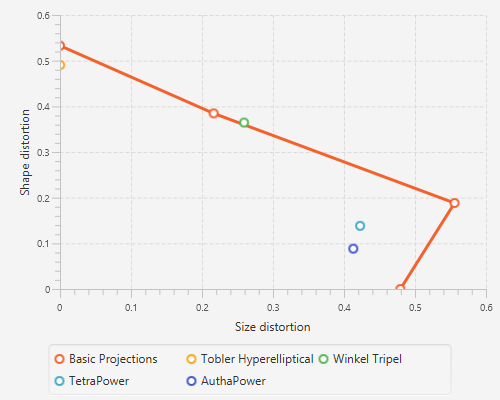
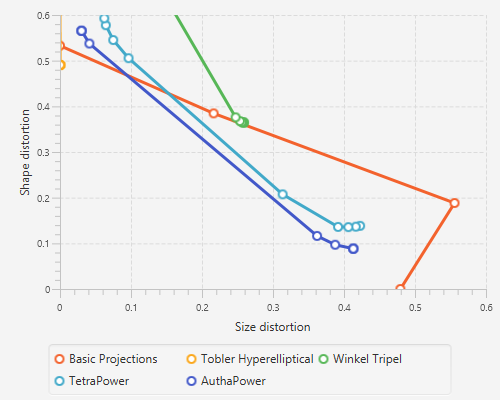
Good documentation is its own reward
I tidied up the documentation on the BFGS stuff and updated my maps and
defaults to be informed by the new optimizations.

diff --git a/src/apps/MapOptimizer.java b/src/apps/MapOptimizer.java
@@ -57,14 +57,13 @@ import utils.linalg.Vector;
 public class MapOptimizer extends Application {
 	
 	private static final Projection[] EXISTING_PROJECTIONS = { Cylindrical.BEHRMANN,
-			Arbitrary.ROBINSON, Cylindrical.GALL_STEREOGRAPHIC, Misc.PEIRCE_QUINCUNCIAL };
+			Arbitrary.ROBINSON, Cylindrical.PLATE_CARREE, Cylindrical.GALL_STEREOGRAPHIC,
+			Misc.PEIRCE_QUINCUNCIAL };
 	private static final Projection[] PROJECTIONS_TO_OPTIMIZE = { Tobler.TOBLER,
 			WinkelTripel.WINKEL_TRIPEL, Polyhedral.TETRAPOWER, Polyhedral.AUTHAPOWER };
-//	private static final double[] WEIGHTS = { 0., .125, .25, .375, .5, .625, .75, .875, 1. };
-	private static final double[] WEIGHTS = {0};
-	private static final int NUM_SAMPLE = 1;
+	private static final double[] WEIGHTS = { 0., .125, .25, .375, .5, .625, .75, .875, 1. };
 	private static final int NUM_BRUTE_FORCE = 30;
-	private static final int NUM_BFGS_ITERATE = 6;
+	private static final int NUM_BFGS_ITERATE = 7;
 	private static final double GOLDSTEIN_C = 0.5;
 	private static final double BACKTRACK_TAU = 0.5;
 	private static final double BACKTRACK_ALF0 = 4;
@@ -126,17 +125,8 @@ public class MapOptimizer extends Application {
 	}
 	
 	
-	private static final double weighDistortion(Projection proj, double[] params, double weight) {
-		double areaDist = 0, anglDist = 0;
-		for (int i = 0; i < NUM_SAMPLE; i ++) {
-			double[] mcParams = new double[params.length];
-			for (int j = 0; j < mcParams.length; j ++)
-				mcParams[j] = params[j];// + (Math.random()-.5)*1e-3; //is it weird that I'm introducing stochasticity into this?
-			double[] distortions = proj.avgDistortion(GLOBE, mcParams);
-			areaDist += distortions[0];
-			anglDist += distortions[1];
-		}
-		return areaDist/NUM_SAMPLE*weight + anglDist/NUM_SAMPLE*(1-weight);
+	private static final double weighDistortion(double[] distortions, double weight) {
+		return distortions[0]*weight + distortions[1]*(1-weight);
 	}
 	
 	
@@ -149,10 +139,10 @@ public class MapOptimizer extends Application {
 		for (int k = 0; k < WEIGHTS.length; k ++) {
 			final double weighFactor = WEIGHTS[k];
 			double[] currentBest = bruteForceMinimise(
-					(params) -> weighDistortion(proj, params, weighFactor),
+					(params) -> weighDistortion(proj.avgDistortion(GLOBE, params), weighFactor),
 					proj.getParameterValues());
 			best[k] = bfgsMinimise(
-					(params) -> weighDistortion(proj, params, weighFactor),
+					(params) -> weighDistortion(proj.avgDistortion(GLOBE, params), weighFactor),
 					currentBest);
 		}
 		
@@ -181,7 +171,6 @@ public class MapOptimizer extends Application {
 	 * parameter sweep.
 	 * @param func The function to minimise
 	 * @param bounds Parameter limits for each argument
-	 * @param numTries The approximate number of samples to take
 	 * @return An array containing the best input to func that it found
 	 */
 	private static double[] bruteForceMinimise(Function<double[], Double> func, double[][] bounds) {
@@ -222,6 +211,13 @@ public class MapOptimizer extends Application {
 	}
 	
 	
+	/**
+	 * Calculates the set of parameters that minimises the function using BFGS optimisation with
+	 * a backtracking line search
+	 * @param arrFunction The function that takes a parameter array and returns a double value
+	 * @param x0 The initial guess
+	 * @return The array of parameters that mimimise arrFunction
+	 */
 	private static double[] bfgsMinimise(Function<double[], Double> arrFunction, double[] x0) { //The Broyden-Fletcher-Goldfarb-Shanno algorithm
 		System.out.println("BFGS = [");
 		final int n = x0.length;
@@ -230,22 +226,8 @@ public class MapOptimizer extends Application {
 		
 		Vector xk = new Vector(x0); //initial variable values
 		double fxk = func.apply(xk);
-//		System.out.println(hessian(func, xk, fxk));
-//		System.out.println(grad(func, xk, fxk));
-//		Matrix H = hessian(func, xk, fxk);
 		Matrix Binv = hessian(func, xk, fxk).inverse();
-//		Matrix Binv = Matrix.identity(n); //initial approximate Hessian inverse
 		Vector gradFxk = grad(func, xk, fxk); //function at current location
-		
-//		System.out.println("anetauson!");
-//		System.out.print("A"+NUM_SAMPLE+" = [");
-//		for (double d = 0; d <= 1e-1; d += 5e-4) {
-//			xk = new Vector(17.8, -17.8);
-//			Vector dx = Vector.unit(0, n).times(d);
-//			double f = func.apply(xk.minus(new Vector(-1,1)).plus(dx));
-//			System.out.println(xk.minus(new Vector(-1,1)).plus(dx).getElement(0)+", "+f+";");
-//		}
-//		System.out.println("];");
 		
 		for (int k = 0; k < NUM_BFGS_ITERATE; k ++) { //(I'm not sure how to test for convergence here, so I'm just running a set number of iterations)
 			Vector pk = Vector.fromMatrix(Binv.times(gradFxk)); //apply Newton's method for initial step direction
@@ -271,7 +253,6 @@ public class MapOptimizer extends Application {
 			
 			Matrix a = I.minus(sk.times(yk.T()).times(1/yk.dot(sk)));
 			Matrix b = sk.times(sk.T()).times(1/yk.dot(sk));
-//			Binv = hessian(func, xkp1, fxkp1).inverse();
 			Binv = a.times(Binv).times(a.T()).plus(b); //update Binv
 			
 			xk = xkp1;
@@ -283,6 +264,13 @@ public class MapOptimizer extends Application {
 	}
 	
 	
+	/**
+	 * Calculates the gradient of f at x
+	 * @param f The function to differentiate
+	 * @param x The point at which to differentiate
+	 * @param fx The value of f(x), to speed computations
+	 * @return
+	 */
 	private static Vector grad(Function<Vector, Double> f, Vector x, double fx) {
 		final int n = x.getLength();
 		Vector gradF = new Vector(n); //compute the gradient
@@ -294,12 +282,18 @@ public class MapOptimizer extends Application {
 		}
 		for (double d: x.asArray())
 			System.out.print(d+", ");
-//		System.out.println(gradF.getElement(0)+", "+gradF.getElement(1)+";");
 		System.out.println(fx+";");
 		return gradF;
 	}
 	
 	
+	/**
+	 * Computes the Hessian matrix of f at x
+	 * @param f The function to differentiate
+	 * @param x The point at which to differentiate
+	 * @param fx The value of f(x), to aid in computation
+	 * @return The Jacobian of the gradient, a symmetric Matrix of second derivatives
+	 */
 	private static Matrix hessian(Function<Vector, Double> f, Vector x, double fx) {
 		final int n = x.getLength();
 		
@@ -316,7 +310,6 @@ public class MapOptimizer extends Application {
 			values[k] = f.apply(x.plus(dx));
 		}
 		
-//		System.out.println(Arrays.toString(values));
 		Matrix h = new Matrix(n, n);
 		for (int i = 0; i < n; i ++) { //compute the derivatives and fill the matrix
 			for (int j = i; j < n; j ++) {
@@ -324,7 +317,6 @@ public class MapOptimizer extends Application {
 				int dxj = (int)Math.pow(3, j);
 				double dfdx0 = (values[dxi] - values[0])/DEL_X;
 				double dfdx1 = (values[dxi+dxj] - values[dxj])/DEL_X;
-//				System.out.println(dfdx0+", "+dfdx1);
 				double d2fdx2 = (dfdx1 - dfdx0)/DEL_X;
 				h.setElement(i, j, d2fdx2);
 				h.setElement(j, i, d2fdx2);

diff --git a/src/maps/WinkelTripel.java b/src/maps/WinkelTripel.java
@@ -48,7 +48,7 @@ public final class WinkelTripel {
 	public static final Projection WINKEL_TRIPEL =
 			new Projection("Winkel Tripel", "National Geographic's compromise projection of choice.",
 					0, 2*Math.PI, 0b1011, Type.OTHER, Property.COMPROMISE, 3,
-					new String[] {"Std. Parallel"}, new double[][] {{0,90,50.4598}}) {
+					new String[] {"Std. Parallel"}, new double[][] {{0,90,40}}) {
 		
 		private double stdParallel;
 		
@@ -66,7 +66,7 @@ public final class WinkelTripel {
 					x, y,
 					y/2, x*(1 + Math.cos(y*Math.PI/2))/(2 + 2*Math.cos(stdParallel)), //inital guess is Eckert V
 					this::f1pX, this::f2pY,
-					this::df1dphi, this::df1dlam, this::df2dphi, this::df2dlam, .002);
+					this::df1dphi, this::df1dlam, this::df2dphi, this::df2dlam, .001);
 		}
 		
 		private double f1pX(double phi, double lam) {

diff --git a/src/maps/Tobler.java b/src/maps/Tobler.java
@@ -42,7 +42,7 @@ public class Tobler {
 					"Tobler Hyperelliptical", "An equal-area projection shaped like a hyperellipse.",
 					2*Math.PI, 0, 0b1001, Type.PSEUDOCYLINDRICAL, Property.EQUAL_AREA, 4,
 					new String[]{"Std. Parallel","alpha","K"},
-					new double[][] {{0,89,37}, {0,1,0}, {1,5,3.6}}) { //optimal parameters are 30.6,.50,3.63, but these defaults are more recognizably Tobler
+					new double[][] {{0,89,30}, {0,1,.46}, {1,5,3.7}}) { //optimal parameters are 30.6,.50,3.63, but these defaults are more recognizably Tobler
 		
 		private static final int N = 20000;
 		private double alpha, kappa, epsilon; //epsilon is related to gamma, but defined somewhat differently

diff --git a/src/maps/Polyhedral.java b/src/maps/Polyhedral.java
@@ -236,7 +236,7 @@ public class Polyhedral {
 					"TetraPower", "A parameterised tetrahedral projection that I invented.", 0b1111,
 					Configuration.TETRAHEDRON_WIDE_FACE, Property.COMPROMISE, 2,
 					new String[] {"k1","k2","k3"},
-					new double[][] {{.01,2.,.98},{.01,2.,1.2},{.01,2.,.98}}) {
+					new double[][] {{.01,2.,1.01},{.01,2.,1.19},{.01,2.,1.01}}) {
 		
 		private double k1, k2, k3;
 		
